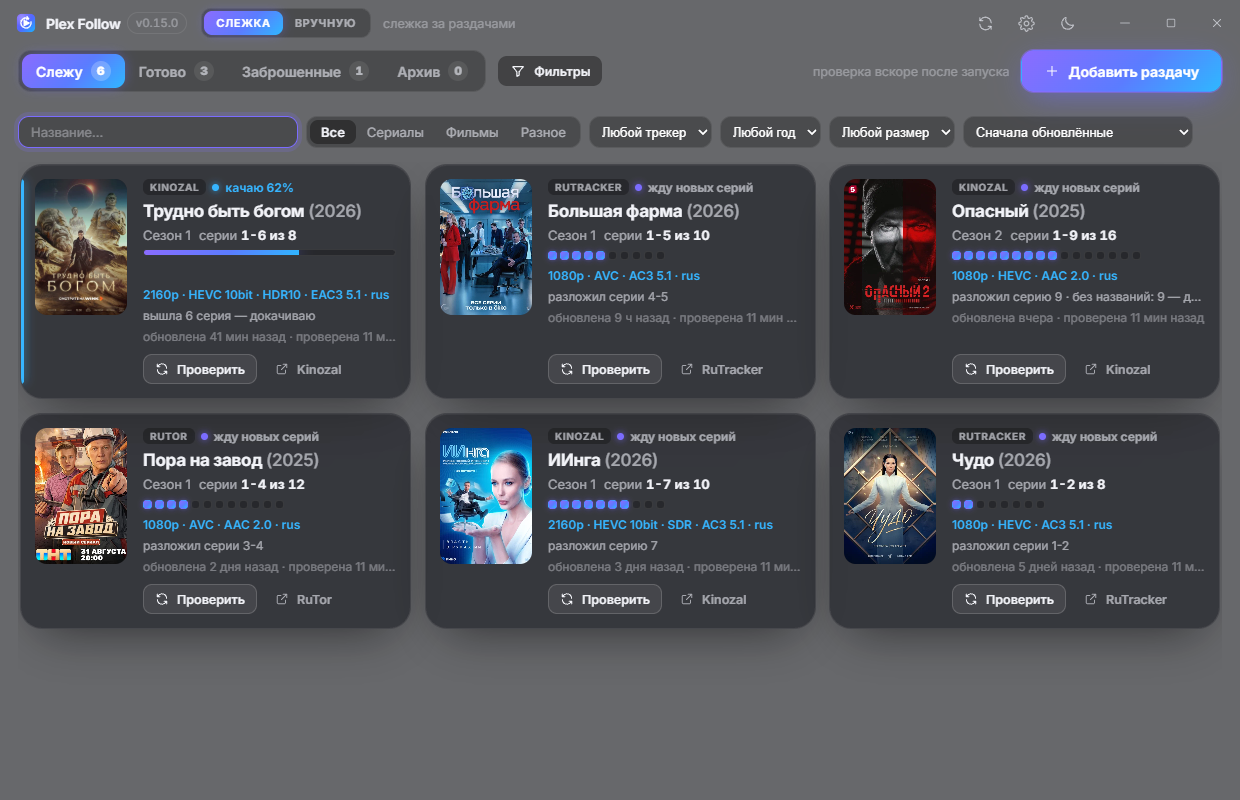
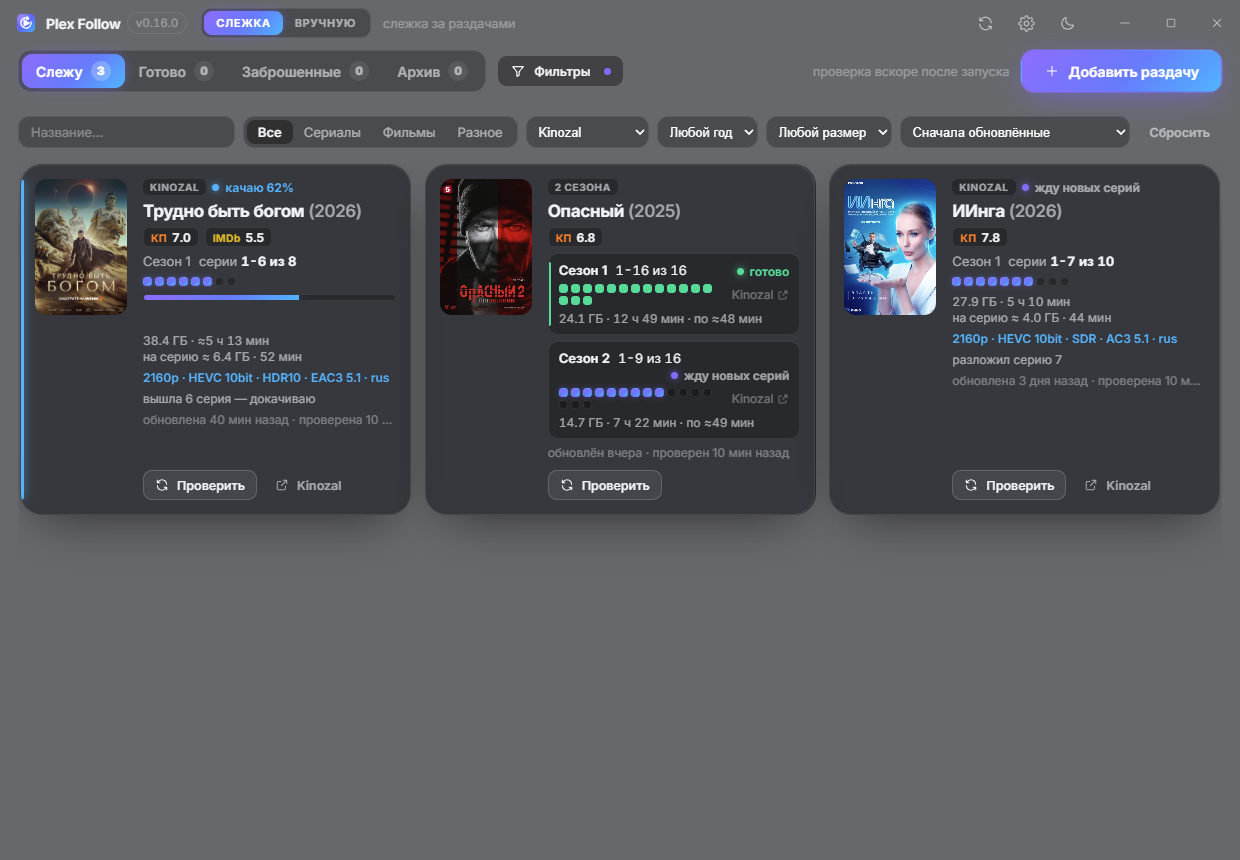
README: оценки, сезоны одной карточкой, освобождение места; новые снимки окна

diff --git a/README.md b/README.md
@@ -14,7 +14,7 @@
 
 </div>
 
-<p align="center"><img src="screenshots/main.png" width="920" alt="Главное окно Plex Follow: карточки сериалов, за которыми идёт слежка"></p>
+<p align="center"><img src="screenshots/main.png" width="920" alt="Главное окно Plex Follow: карточки раздач с оценками, сериями, размером и длительностью; два сезона одного сериала — одной карточкой"></p>
 
 ---
 
@@ -42,14 +42,17 @@ Plex, Emby и Jellyfin обновляют сериал, а вам приходи
 | 📡 **Трекеры** | Kinozal, RuTracker, RuTor. Kinozal и RuTracker открываются в окне программы: вы сами проходите проверку Cloudflare и входите в аккаунт на сайте — так программа пароль не видит и не хранит. Удобнее иначе — впишите логин и пароль в настройки: программа будет входить сама, а пароль сохранит зашифрованным. |
 | 🧲 **Magnet и .torrent** | Вместо ссылки на раздачу — magnet или файл .torrent. Если в файле записана страница раздачи, программа следит за ней как обычно; если нет — скачает и разложит в библиотеку один раз. |
 | ⬇ **Торрент-клиенты** | qBittorrent, Transmission, Deluge, rTorrent. Скорость и остаток закачки видны прямо в программе. Папку загрузок программа находит сама — достаточно вставить путь из Проводника. |
+| 🃏 **Карточки** | У каждой раздачи — серии кружками, размер и длительность: всего и в среднем на серию. Сезоны одного сериала собраны в одну карточку, у каждого сезона своя строка. |
+| ⭐ **Оценки** | На карточке — Кинопоиск, IMDb и Rotten Tomatoes. По желанию — ещё зрители Rotten Tomatoes, Metacritic, TVmaze и критики России. Лишнее выключается в настройках. |
 | 🗂 **Раскладка в библиотеку** | Сериал и названия серий берутся с Кинопоиска, а чего там ещё нет — с TVmaze. Шаблоны имён настраиваются. Оригинал остаётся на раздаче. |
 | 🎬 **Фильмы** | Ссылка на раздачу фильма — и он в библиотеке. Раздачу заменили версией получше — программа докачает её и заменит фильм. Прежняя версия уходит в корзину: программа спросит, что с ней делать, подержит заданное число дней или удалит сразу — как настроите. Пока версия в корзине, её можно вернуть. |
 | 📦 **«Разное»** | Игра, программа, что угодно: за такой раздачей программа только следит и докачивает обновления — без Кинопоиска, переименований и раскладки. Можно в отдельную папку. |
 | 🤖 **Бот в Telegram** | Пришлите боту ссылку на раздачу или magnet — он покажет сериал и кнопку «Следить». `/list` — за чем слежу, `/check` — проверить сейчас, `/stop` — перестать следить, `/undo` — отменить раскладку. |
 | 🔔 **Уведомления** | Не только Telegram: всплывающие уведомления Windows, почта и webhook — для ntfy, Gotify, Home Assistant и своих скриптов. Каждый способ включается отдельно. |
 | 💾 **Сторож места** | Закачка не начнётся, если после неё в папке загрузок останется меньше запаса (по умолчанию 20 ГБ). Программа напишет об этом, сама ничего не удалит и продолжит, когда место появится. |
+| 🧹 **Освобождение места** | Одна кнопка показывает, что в загрузках уже лежит в библиотеке и только занимает место: собранные сериалы, фильмы, прошлые версии фильмов. Удаляется только то, что вы отметите, — [подробнее](#освобождение-места). |
 | ↩ **Отмена раскладки** | Сериал опознан неверно? Одна кнопка убирает из библиотеки то, что положила программа; скачанное остаётся в загрузках. Потом — «Разложить заново». |
-| 🧹 **Чистка при отмене** | Перестаёте следить — программа скажет, что осталось в библиотеке, и предложит убрать торрент, скачанное и серии этого сезона. Удобно, когда нашлась раздача в лучшем качестве. |
+| 🗑 **Чистка при отмене** | Перестаёте следить — программа скажет, что осталось в библиотеке, и предложит убрать торрент, скачанное и серии этого сезона. Удобно, когда нашлась раздача в лучшем качестве. |
 | ✋ **Режим «Вручную»** | Папка со скачанным сезоном или фильмом — в библиотеку за пару щелчков: программа узнаёт сериал по имени раздачи, даже если оно написано латиницей, расставляет номера и названия серий. С отменой и историей операций. |
 | 🏷 **Профили** | Свои правила для отдельных раздач: другой торрент-клиент, оригинальные или русские названия, своя папка библиотеки. Выбирается при добавлении — в окне или кнопкой в боте. |
 | 🔎 **Фильтры** | Раздач много? Поиск по названию, сериалы, фильмы или «Разное», трекер, год, размер и порядок списка. |
@@ -83,6 +86,24 @@ Plex, Emby и Jellyfin обновляют сериал, а вам приходи
 - **Готово** — вышли все серии, всё разложено;
 - **Заброшенные** — раздача давно не обновлялась (по умолчанию 14 дней), а серий ещё не все. Обновится — вернётся в «Слежу»;
 - **Архив** — раздачи, за которыми вы перестали следить, и давно заброшенные. Отсюда их можно вернуть одной кнопкой.
+
+Если что-то мешает работе прямо сейчас, над карточками появляется плашка: торрент-клиент не отвечает — с каких пор и почему;
+мало места в папке загрузок — с кнопкой «Освободить место…».
+
+## Освобождение места
+
+Раскладка в библиотеку — это копия: оригинал остаётся в папке загрузок и продолжает раздаваться. Со временем там копится то,
+что уже не нужно. Кнопка «Освободить место…» (Настройки → Торрент-клиент → «Папка загрузок») собирает это в один список:
+
+- **собранные сериалы** — все серии вышли и лежат в библиотеке;
+- **фильмы**, которые уже в библиотеке;
+- **раздачи из архива**, с которых в библиотеке лежит всё;
+- **прошлые версии фильмов** — раздачу обновили, новая версия скачалась отдельно, а файлы прежней остались лежать.
+
+У каждой строки — размер и рейтинг раздачи. Вы отмечаете, что убрать; программа переспросит и удалит торрент из клиента вместе
+со скачанными файлами. Библиотека не трогается. Сериалы, которые ещё идут, и «Разное» в список не попадают — им загрузки нужны.
+
+<p align="center"><img src="screenshots/free.png" width="760" alt="Окно «Освободить место в загрузках»: прошлая версия фильма, собранные сериалы, фильм в библиотеке и раздача из архива — с размерами и галочками"></p>
 
 ## Magnet и файл .torrent
 
